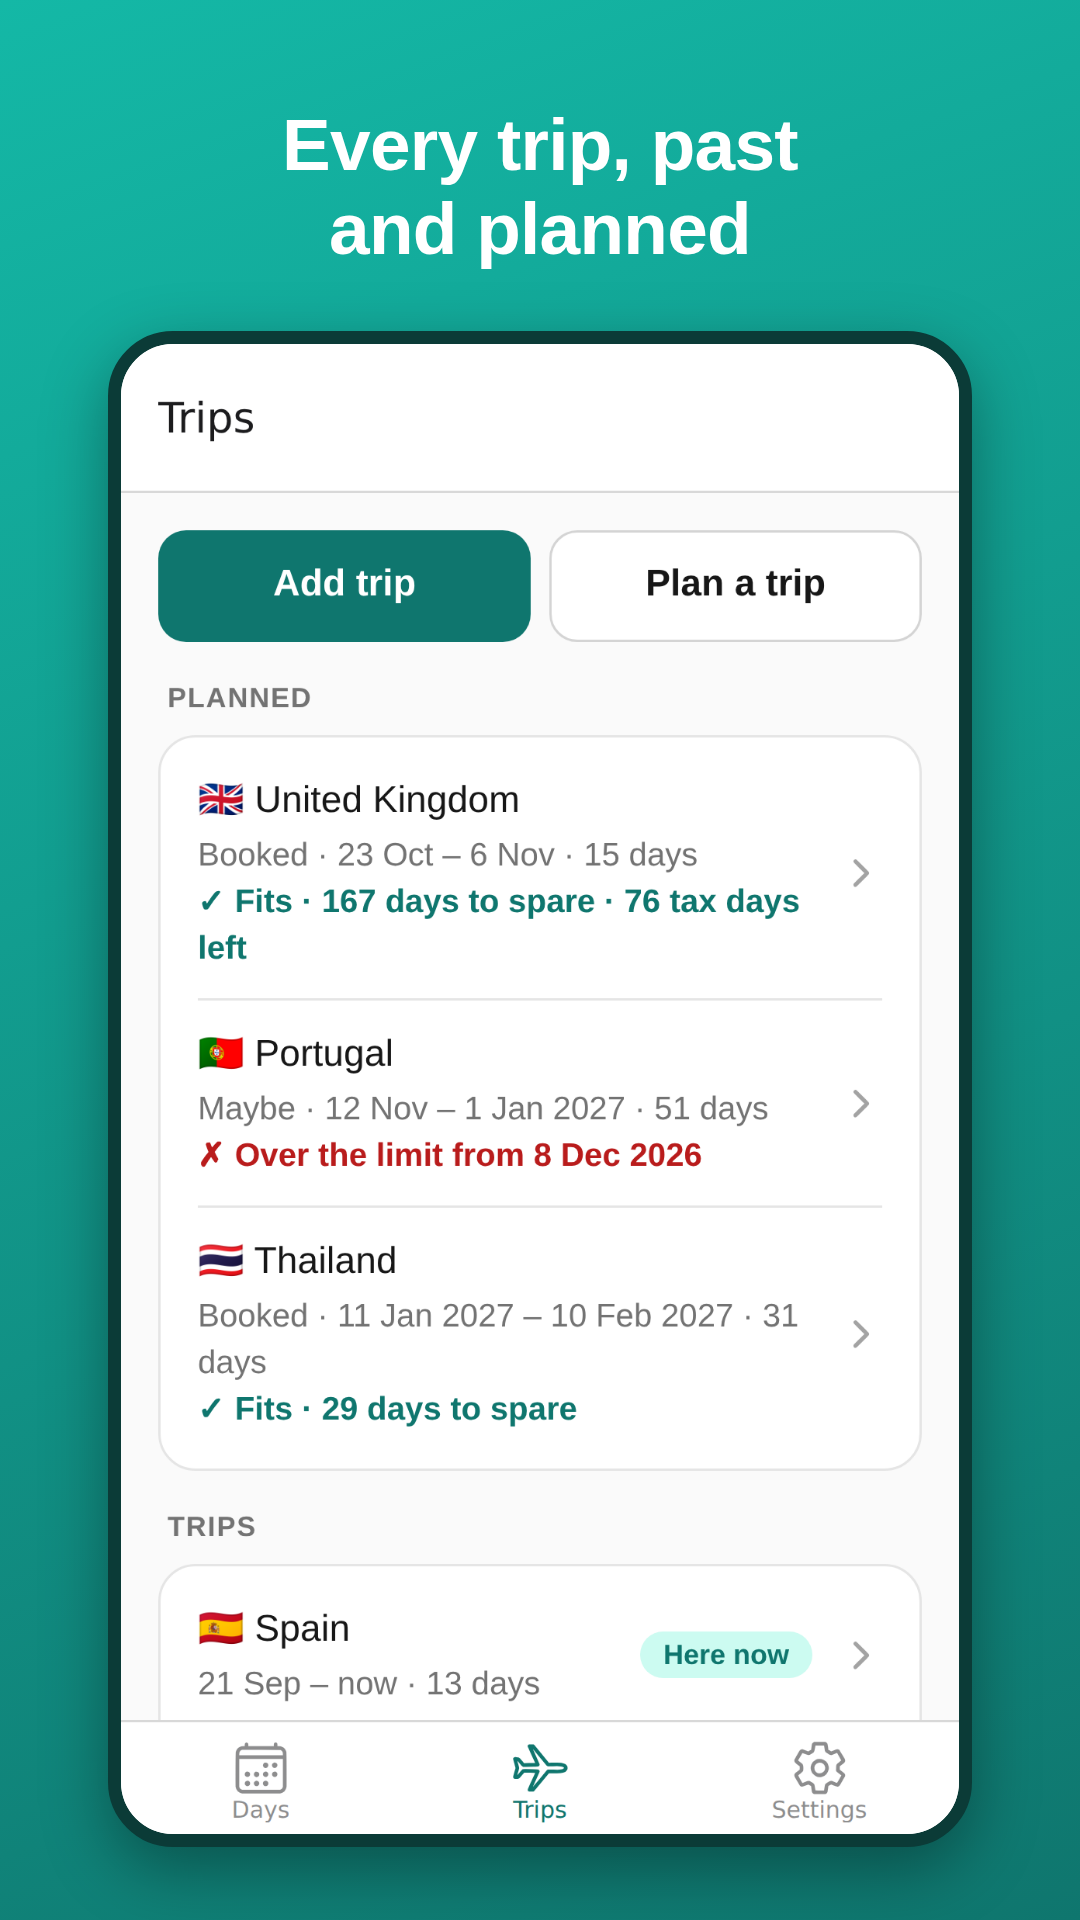
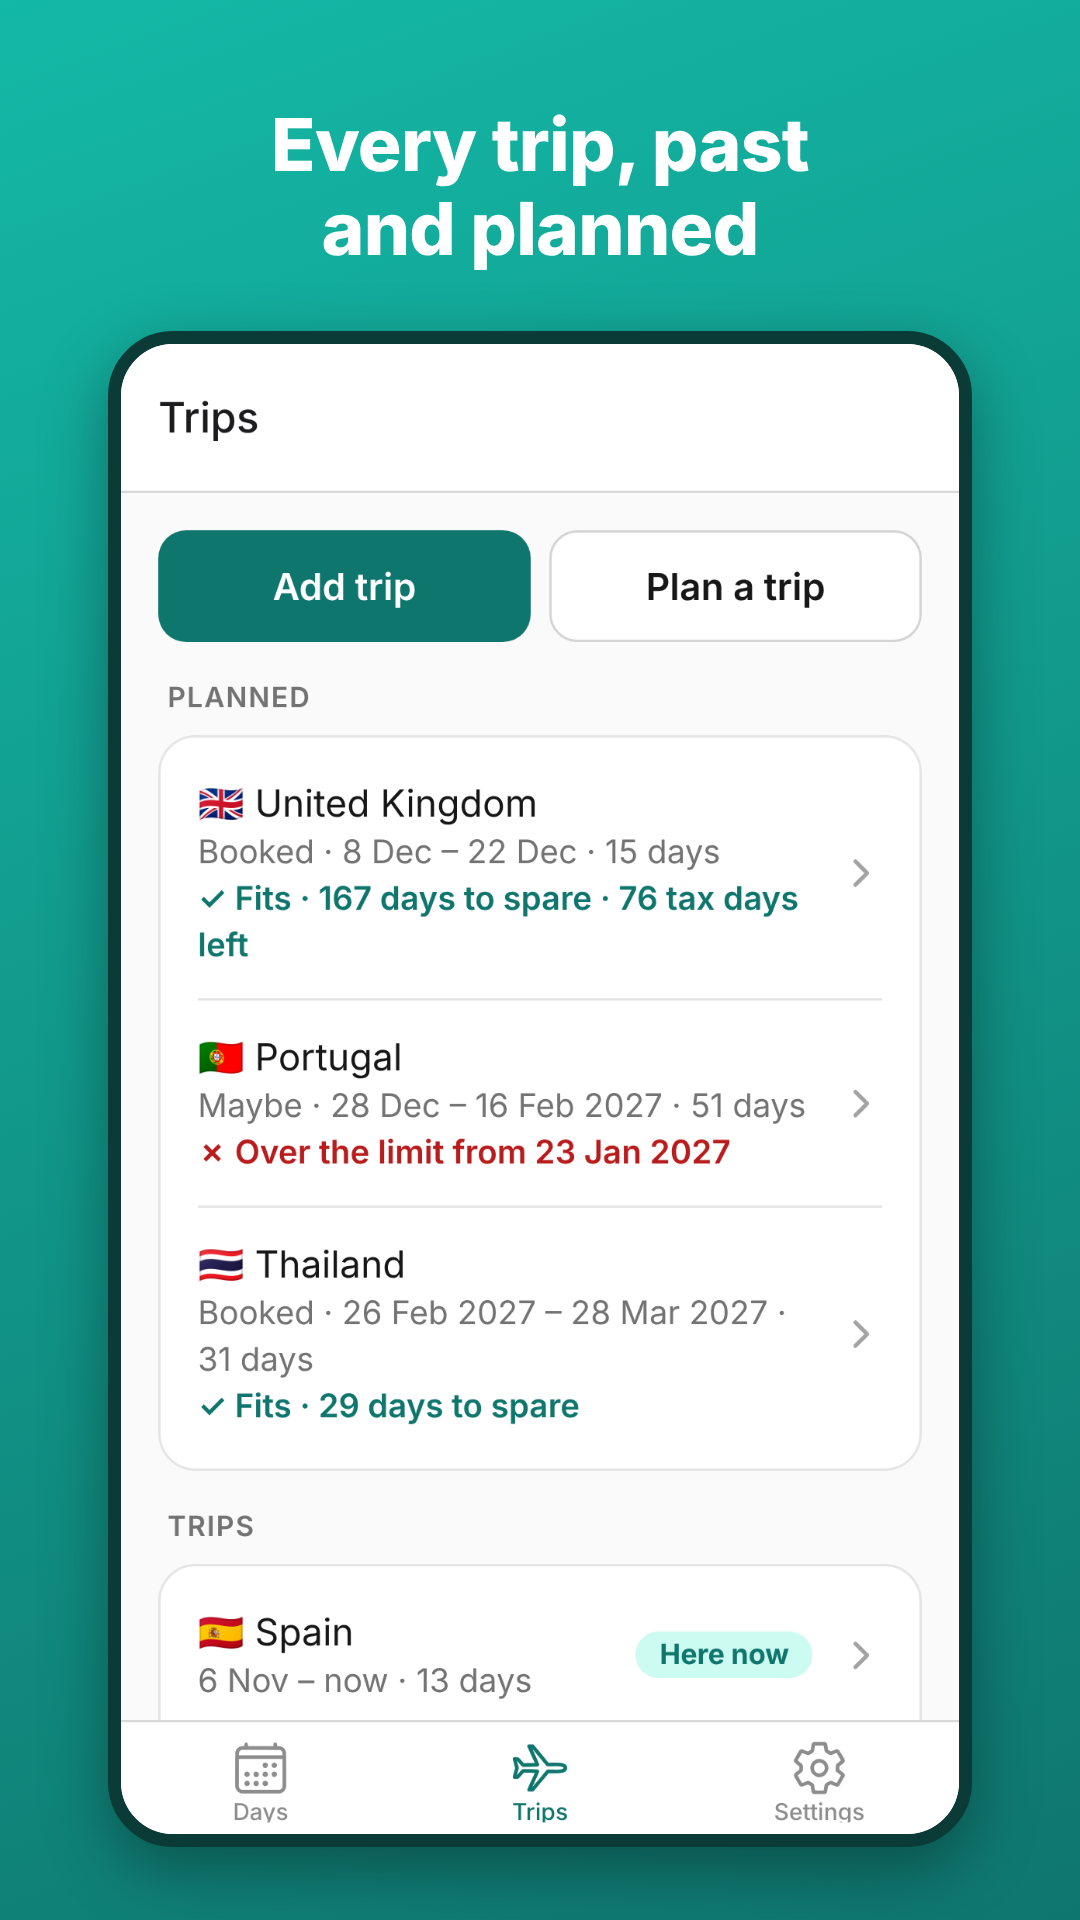
Release 1.0.6: new jurisdictions and simpler cards
- Version 1.0.6 (versionCode and buildNumber 7), with changelogs 7 and
  7001-7003
- Store description and README list the new countries, the big-number
  cards and passport-based limits
- Store and F-Droid screenshots regenerated with the new dashboard

Claude-Session: https://claude.ai/code/session_01C2tSszpZS6FysKDR8HnwYQ

diff --git a/README.md b/README.md
@@ -3,7 +3,8 @@
 Count your days abroad so you stay within the Schengen 90/180 rule, visitor limits and tax-residency thresholds. Everything stays on your phone.
 
 - **Log trips** (country, arrival and departure) and see days used, days left, your last safe day, and when you can return.
-- **Bundled rules** for Schengen, the UK and the US, plus **your own rules** for any other country.
+- **Bundled rules** for Schengen, the UK, the US, Australia, New Zealand, Canada, the Isle of Man, Jersey and Guernsey, plus **your own rules** for any other country.
+- **One number per card:** the days left under whichever rule runs out first, with the details a tap away.
 - **Private:** no accounts, servers or analytics. Data is encrypted on the device, and backups are encrypted files you export.
 
 Estimates only. This is not legal or tax advice.
